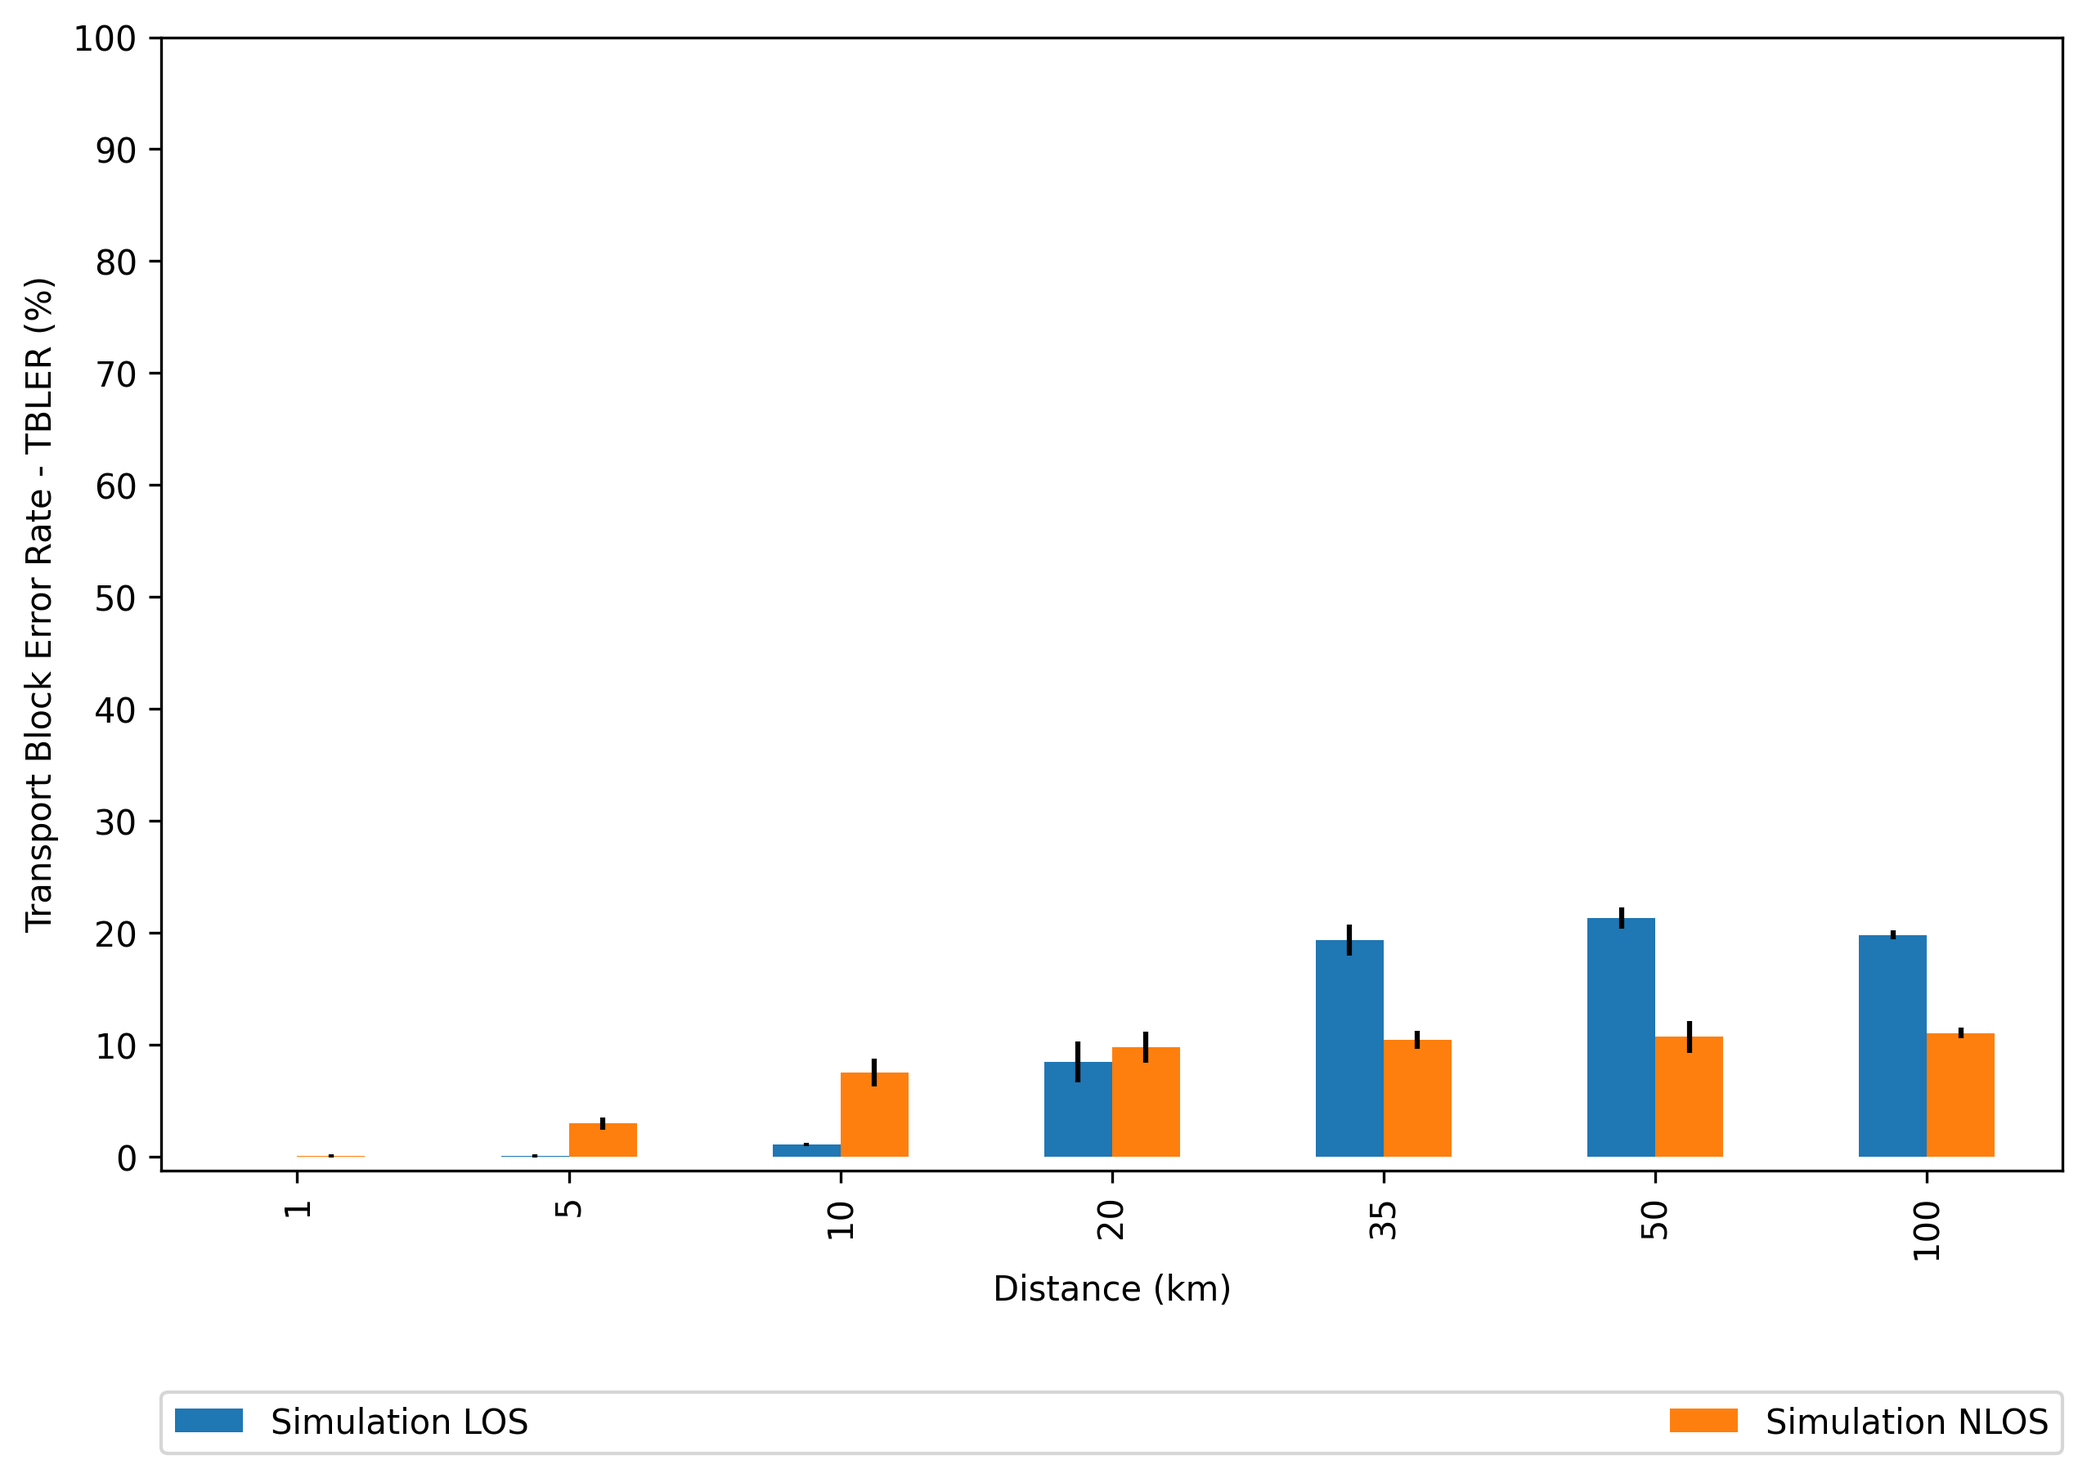
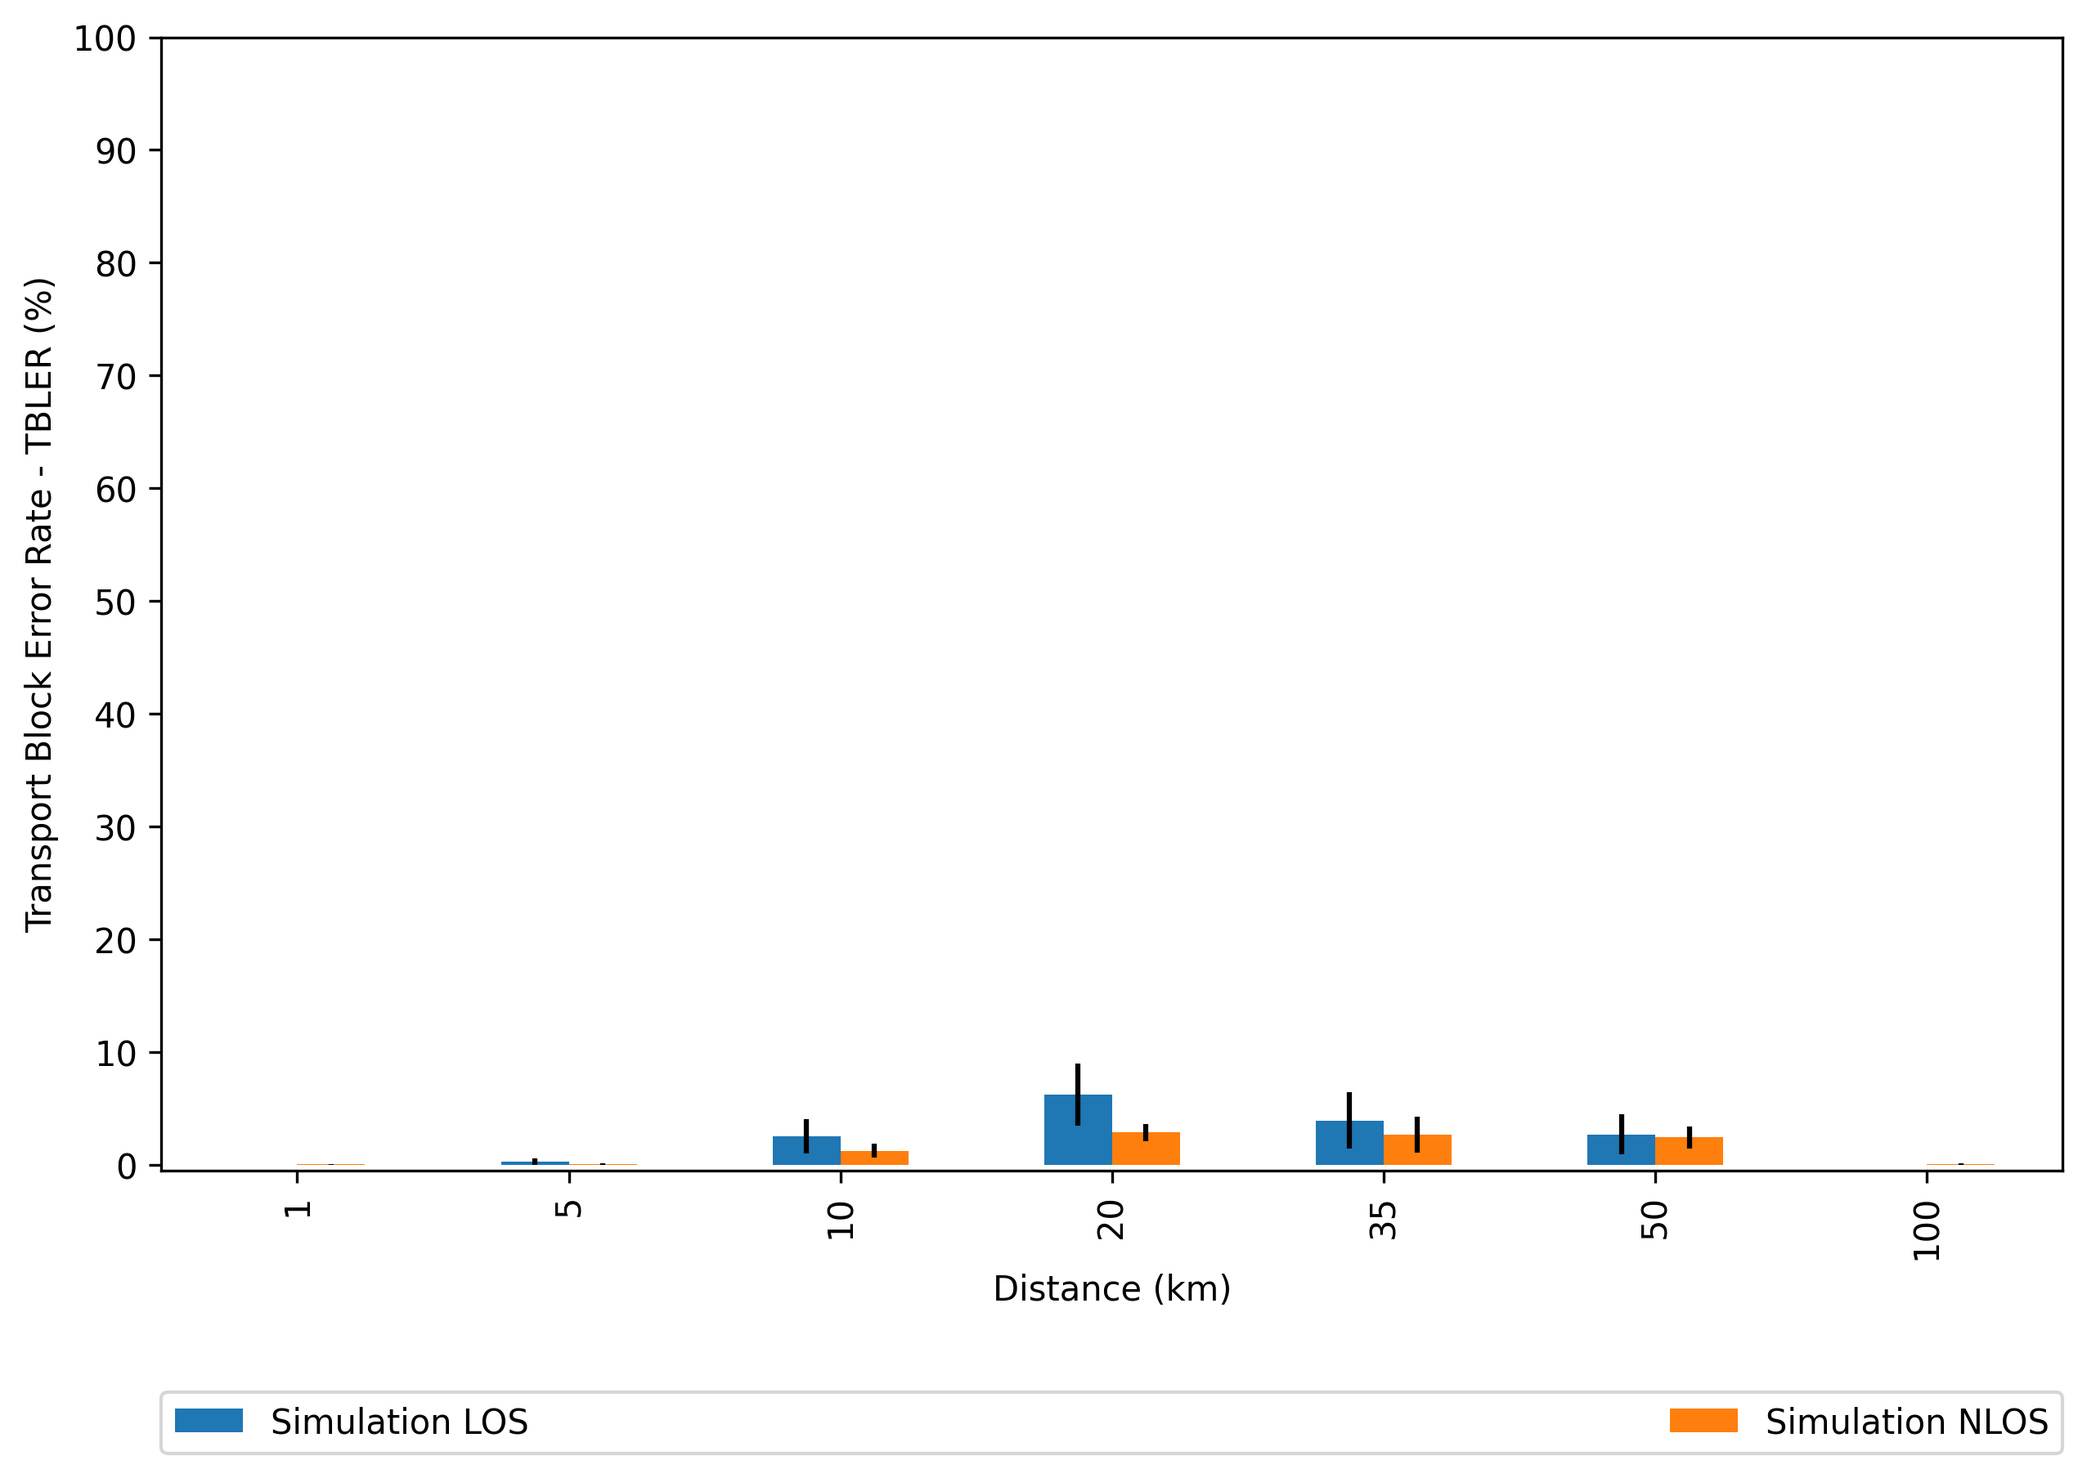
Fix EESM name and effective SINR calculation according to D6.1

diff --git a/src/lte/model/lte-eesm-error-model.cc b/src/lte/model/lte-eesm-error-model.cc
@@ -30,7 +30,7 @@
 #include <string>
 #include "stdlib.h"
 #include <unordered_map>
-#include <ns3/lte-miesm-error-model.h>
+#include <ns3/lte-eesm-error-model.h>
 #include <ns3/lte-module.h>
 
 #include "json_loader.h"
@@ -38,7 +38,7 @@
 
 namespace ns3 {
 
-    NS_LOG_COMPONENT_DEFINE ("LteMiesmErrorModel");
+    NS_LOG_COMPONENT_DEFINE ("LteEesmErrorModel");
 
     static std::vector<uint16_t> cbSizeTable5g;
     static std::vector<std::string> channelModelTable5g;
@@ -48,8 +48,8 @@ namespace ns3 {
     static std::map<std::string, std::vector<std::vector<double>>> blerTable5g;
     static std::map<std::string, std::map<uint16_t, std::map<uint16_t,double>>> betaTable5g;
     static std::unordered_map<double, uint16_t> snrIndex5g;
-    bool LteMiesmErrorModel::errorDataLoaded = false;
-    void LteMiesmErrorModel::LoadErrorData()
+    bool LteEesmErrorModel::errorDataLoaded = false;
+    void LteEesmErrorModel::LoadErrorData()
     {
         if (errorDataLoaded)
             return;
@@ -180,16 +180,16 @@ namespace ns3 {
     }
 
     double
-    LteMiesmErrorModel::MappingMiBler (double snreff, uint8_t mcs, uint16_t cbSize, uint8_t num, std::string chan)
+    LteEesmErrorModel::MappingMiBler (double snreff, uint8_t mcs, uint16_t cbSize, uint8_t num, std::string chan)
     {
 
         if (!errorDataLoaded)
             LoadErrorData();
 
-        size_t snrIndex = snrValueTable5g.size() - 1;
-
+        unsigned snrIndex = snrValueTable5g.size() - 1;
+        //std::cout << snreff << std::endl;
         //get nearest larger snr
-        for (size_t i = 0; i < snrValueTable5g.size();i++)
+        for (unsigned i = 0; i < snrValueTable5g.size();i++)
         {
             if (snrValueTable5g[i] >= snreff)
             {
@@ -205,20 +205,20 @@ namespace ns3 {
         double bler = 1.0;
         if (blerTable5g.find(scen) != blerTable5g.end())
             bler = blerTable5g[scen][mcs][snrIndex];
-        //std::cout << scen << " cbler " << bler << std::endl;
+        //std::cout << "snrIndex " << snrIndex << " scenario " << scen << " cbler " << bler << std::endl;
         return bler;
     }
 
     TbStats_t
-    LteMiesmErrorModel::GetTbDecodificationStats (const SpectrumValue& sinr,
-                                                  const std::vector<int>& map,
-                                                  uint16_t prb_size,
-                                                  uint32_t size,
-                                                  uint8_t mcs,
-                                                  HarqProcessInfoList_t miHistory,
-                                                  uint8_t num,
-                                                  std::string chan,
-                                                  double speed)
+    LteEesmErrorModel::GetTbDecodificationStats (const SpectrumValue& sinr,
+                                                 const std::vector<int>& map,
+                                                 uint16_t prb_size,
+                                                 uint32_t size,
+                                                 uint8_t mcs,
+                                                 HarqProcessInfoList_t miHistory,
+                                                 uint8_t num,
+                                                 std::string chan,
+                                                 double speed)
     {
         std::vector<double> sinrAsDoubles;
         for (int i = 0; i < sinr.ConstValuesEnd()-sinr.ConstValuesBegin(); i++)
@@ -227,16 +227,17 @@ namespace ns3 {
         }
         return GetTbDecodificationStatsDoubles(sinrAsDoubles, map, prb_size, size, mcs, miHistory, num, chan, speed);
     }
+
     TbStats_t
-    LteMiesmErrorModel::GetTbDecodificationStatsDoubles (std::vector<double> sinr,
-                                                  const std::vector<int>& map,
-                                                  uint16_t prb_size,
-                                                  uint32_t size,
-                                                  uint8_t mcs,
-                                                  HarqProcessInfoList_t miHistory,
-                                                  uint8_t num,
-                                                  std::string chan,
-                                                  double speed)
+    LteEesmErrorModel::GetTbDecodificationStatsDoubles (std::vector<double> sinr,
+                                                        const std::vector<int>& map,
+                                                        uint16_t prb_size,
+                                                        uint32_t size,
+                                                        uint8_t mcs,
+                                                        HarqProcessInfoList_t miHistory,
+                                                        uint8_t num,
+                                                        std::string chan,
+                                                        double speed)
     {
         NS_LOG_FUNCTION (sinr << &map << (uint32_t) size << (uint32_t) mcs);
 
@@ -471,6 +472,8 @@ namespace ns3 {
             // Calculate the SINR components of the CBS
             auto it = map.begin();
             double curr_prb_sinr = sinr[*it];
+
+            // Proceed to CB SINR fraction calculations
             int tbs_size = tbs_bits;
             double curr_cb_size = big_cb_num > 0 ? big_cb_size : (small_cb_num > 0 ? small_cb_size : 0);
             int curr_cb_index, used_budget, prb_budget, new_cb_budget, new_cb_size;
@@ -543,11 +546,13 @@ namespace ns3 {
         std::vector<double> tbs_snr_components;
         double errorRate = 1.0;
         {
-            double n = 0;
+            volatile double n = 0;
             int curr_cb = 0;
-            double avg_cb_sinr = 0;
-            double snrEff = 0;
-            double cbler = 0;
+            volatile double avg_cb_sinr = 0;
+            volatile double snrEff = 0;
+            volatile double cbler = 0;
+            volatile double beta = curr_cb < smallBeta ? beta5gBig : beta5gSmall;
+            unsigned cb_size = curr_cb < smallBeta ? big_cb_size : small_cb_size;
 
             // compute mean SINR of CBs based on PRBs SINR and fraction used
             for (auto entry: cb_snr_components)
@@ -561,31 +566,28 @@ namespace ns3 {
                 if (cb_index != curr_cb)
                 {
                     // calculate the effective SNR and corresponding BLER
-                    snrEff = (curr_cb < smallBeta ? beta5gBig : beta5gSmall) * avg_cb_sinr/n;
-                    snrEff = 10*log10(snrEff); // calculate effective SINR in dB
-                    //std::cout << "snr " << snrEff << std::endl;
-                    cbler = MappingMiBler(snrEff, mcs, (curr_cb < smallBeta ? big_cb_size : small_cb_size), num, chan);
+                    snrEff = -beta * log(avg_cb_sinr / n);
+                    cbler = MappingMiBler(snrEff, mcs, cb_size, num, chan);
 
                     // then aggregate the error rate of the TB
                     errorRate *= (1.0 - cbler);
-
-                    //std::cout << "sinr " << snrEff << " cbs " << big_cb_size << " cbler " << cbler << " tbler "<< 1-errorRate << std::endl;
 
                     // and finally reset the variables that will get reused by the next CB
                     n = 0;
                     avg_cb_sinr = 0;
                     curr_cb = cb_index;
+                    beta = curr_cb < smallBeta ? beta5gBig : beta5gSmall;
+                    cb_size = curr_cb < smallBeta ? big_cb_size : small_cb_size;
                 }
-                // calculate SNR fraction of the current PRB of a given RB
-                avg_cb_sinr += (prb_sinr * prb_fraction)/(curr_cb < smallBeta ? beta5gBig : beta5gSmall);
-                snrEff = 10*log10(snrEff); // sinr efetivo em dB
+
+                // calculate effective SNR fraction of the current PRB of a given CB
+                avg_cb_sinr += exp(-10 * log10(prb_sinr) / beta) * prb_fraction;
                 n += prb_fraction;
+
             }
             // calculate the effective SNR and corresponding BLER of the last CB
-            snrEff = (curr_cb < smallBeta ? beta5gBig : beta5gSmall) * avg_cb_sinr/n;
-            snrEff = 10*log10(snrEff); // calculate effective SINR in dB
-            //std::cout << "snr " << snrEff << std::endl;
-            cbler = MappingMiBler(snrEff, mcs, (curr_cb < smallBeta ? big_cb_size : small_cb_size), num, chan);
+            snrEff = -beta * log(avg_cb_sinr/n);
+            cbler = MappingMiBler(snrEff, mcs, cb_size, num, chan);
 
             // then aggregate the error rate of the TB
             errorRate *= (1.0 - cbler);
@@ -594,11 +596,6 @@ namespace ns3 {
 
         // compute final TB error rate
         errorRate = 1.0 - errorRate;
-
-        //if (tbs_bits > 64000)
-        //{
-        //    std::cout << "-----------------------\ntbler "<< errorRate << " tbs " << size << "\n\n\n" << std::endl ;
-        //}
 
         NS_LOG_LOGIC (" Error rate " << errorRate);
         TbStats_t ret{};

diff --git a/src/lte/model/lte-amc.cc b/src/lte/model/lte-amc.cc
@@ -30,7 +30,7 @@
 #include <ns3/double.h>
 #include "ns3/enum.h"
 #include <ns3/lte-mi-error-model.h>
-#include <ns3/lte-miesm-error-model.h>
+#include <ns3/lte-eesm-error-model.h>
 #include <ns3/string.h>
 #include "json_loader.h"
 
@@ -345,7 +345,7 @@ LteAmc::CreateCqiFeedbacks (const SpectrumValue& sinr, uint8_t rbgSize)
           if (m_amcModel == MiErrorModel)
               tbStats = LteMiErrorModel::GetTbDecodificationStats (sinr, rbgMap, tbsBytes, mcs, harqInfoList);
           else
-              tbStats = LteMiesmErrorModel::GetTbDecodificationStats (sinr, rbgMap, (double) prbSize, tbsBytes, mcs, harqInfoList, m_numerology, m_channelModel, speed);
+              tbStats = LteEesmErrorModel::GetTbDecodificationStats (sinr, rbgMap, (double) prbSize, tbsBytes, mcs, harqInfoList, m_numerology, m_channelModel, speed);
           //std::cout << "mcs " << (int) mcs << " rbs " << (int) rbgMap.size() << " tbs " << (int) tbsBytes << " tbler " << tbStats.tbler << std::endl;
           if (tbStats.tbler > 0.1)
               break;
@@ -412,7 +412,7 @@ int LteAmc::GetCqiFromSinrDoubles(const std::vector<double> sinrAsDoubles, uint8
         uint32_t prbSize = GetDlTbSizeFromMcs (mcs, 1);
         uint32_t tbsBytes = (prbSize*rbgSize) / 8; // rbgMap.size()?
         if (m_amcModel == MiesmErrorModel)
-            tbStats = LteMiesmErrorModel::GetTbDecodificationStatsDoubles (sinrAsDoubles, rbgMap, (double) prbSize, tbsBytes, mcs, harqInfoList, m_numerology, m_channelModel, speed);
+            tbStats = LteEesmErrorModel::GetTbDecodificationStatsDoubles (sinrAsDoubles, rbgMap, (double) prbSize, tbsBytes, mcs, harqInfoList, m_numerology, m_channelModel, speed);
         //std::cout << "mcs " << (int) mcs << " tbs " << (int) tbsBytes<< " tbler " << tbStats.tbler << std::endl;
         if (tbStats.tbler > 0.1)
             break;

diff --git a/scratch/5grange_validation/bench_validation.py b/scratch/5grange_validation/bench_validation.py
@@ -151,9 +151,13 @@ def extract_throughput(distanceFolder):
 def extract_corruption_and_mcs(distanceFolder, distance):
     # Open out__km.txt and scan for corrupted transport blocks to calculate the error rate
     contents = None
-    with lzma.open(distanceFolder + "out%dkm.txt.lzma" % distance, "r") as file:
-        contents = file.readlines()
-
+    filename = distanceFolder + "out%dkm.txt.lzma" % distance
+    with lzma.open(filename, "r") as file:
+        try:
+            contents = file.readlines()
+        except Exception as e:
+            print("Failed to open ", filename)
+            raise e
     corrupted = 0
     corrupted_regex = re.compile(".* corrupted (.*).*")
     corrupted_TBs = 0
@@ -296,7 +300,7 @@ if __name__ == "__main__":
     channel_models = ("CDL_D", "CDL_A",)  # "RANGE5G",
     forcedMaxMcs = (False, )  # False, True,)
     distances = [ 1, 5, 10, 20, 35, 50, 100, ]  # 10, 20, 30, 40,
-    batches = 3
+    batches = 10
 
     thread_parameters = []
     # Create folders to dump simulation results
@@ -496,7 +500,7 @@ if __name__ == "__main__":
             error_dataset = OrderedDict({"THR": {},
                              "TBLER": {}
                              })
-            z_value = 4.303  # p=0.05 requires 1.96 with #samples=infty, 2.0 with #samples=40, 2.262 with #samples=10, 4.303 with #samples=3
+            z_value = 2.262  # p=0.05 requires 1.96 with #samples=infty, 2.0 with #samples=40, 2.262 with #samples=10, 4.303 with #samples=3
             for lab in sorted(list(THR.keys())):
                 received_throughput_per_d = {}
                 received_throughput_per_d_error = {}

diff --git a/src/lte/model/lte-spectrum-phy.cc b/src/lte/model/lte-spectrum-phy.cc
@@ -1700,7 +1700,7 @@ LteSpectrumPhy::EndRxData ()
             }
           //TbStats_t tbStats = LteMiErrorModel::GetTbDecodificationStats (m_sinrPerceived, (*itTb).second.rbBitmap, (*itTb).second.size, (*itTb).second.mcs, harqInfoList);
           double speed = 0.0;//todo: fix speed calculation
-          TbStats_t tbStats = LteMiesmErrorModel::GetTbDecodificationStats (m_sinrPerceived, (*itTb).second.rbBitmap, LteAmc::GetPrbSizeFromMcsAndNumerology((*itTb).second.mcs, m_numerology), (*itTb).second.size, (*itTb).second.mcs, harqInfoList, m_numerology, m_channelModel, speed);
+          TbStats_t tbStats = LteEesmErrorModel::GetTbDecodificationStats (m_sinrPerceived, (*itTb).second.rbBitmap, LteAmc::GetPrbSizeFromMcsAndNumerology((*itTb).second.mcs, m_numerology), (*itTb).second.size, (*itTb).second.mcs, harqInfoList, m_numerology, m_channelModel, speed);
           (*itTb).second.mi = tbStats.mi;
           (*itTb).second.corrupt = m_random->GetValue () > tbStats.tbler ? false : true;
           //std::cout << Simulator::Now().GetSeconds() << "  endRxData " << 10*log10(m_sinrPerceived[0]) << "dB tbler " << tbStats.tbler << " mcs " << (int)(*itTb).second.mcs << " corrupted " << (*itTb).second.corrupt << std::endl;

diff --git a/src/propagation/model/spatially-correlated-shadowing-map.cc b/src/propagation/model/spatially-correlated-shadowing-map.cc
@@ -31,10 +31,10 @@ namespace ns3 {
 
     float SpatiallyCorrelatedShadowingMap::get_coordinate_shadowing(Vector3D coordinate)
     {
-        if (m_currentRun >= 0 && m_currentRun < 2)
-            return -3*m_sigma; // assume best case shadowing scenario
-        if (m_currentRun >= 2 && m_currentRun < 4)
-            return 3*m_sigma; // assume worst case shadowing scenario
+        //if (m_currentRun >= 0 && m_currentRun < 2)
+        //    return -3*m_sigma; // assume best case shadowing scenario
+        //if (m_currentRun >= 2 && m_currentRun < 4)
+        //    return 3*m_sigma; // assume worst case shadowing scenario
 
         // The spatially correlated shadowing map is generated on demand based
         //  on the received parameters and position of nodes

diff --git a/scratch/5grange_validation/5grange_cdl_test.cc b/scratch/5grange_validation/5grange_cdl_test.cc
@@ -16,6 +16,7 @@
 #include <ns3/flow-monitor-module.h>
 #include <ns3/spectrum-module.h>
 #include <ns3/lte-spectrum-value-helper.h>
+#include <ns3/spatially-correlated-shadowing-map.h>
 
 using namespace ns3;
 
@@ -340,6 +341,7 @@ main (int argc, char *argv[])
 
   Config::SetDefault ("ns3::LteEnbRrc::DefaultTransmissionMode", UintegerValue (mimoMode));
 
+  SpatiallyCorrelatedShadowingMap(0, 18*4.47, 110);
   if(useCdlPathLoss)
     {
       Config::SetDefault("ns3::Ula5gRange::NumAntElem", UintegerValue(numAntennas));

diff --git a/src/lte/model/lte-eesm-error-model.h b/src/lte/model/lte-eesm-error-model.h
@@ -42,7 +42,7 @@ namespace ns3 {
 /**
  * This class provides the BLER estimation based on mutual information metrics
  */
-    class LteMiesmErrorModel
+    class LteEesmErrorModel
     {
 
     public:
